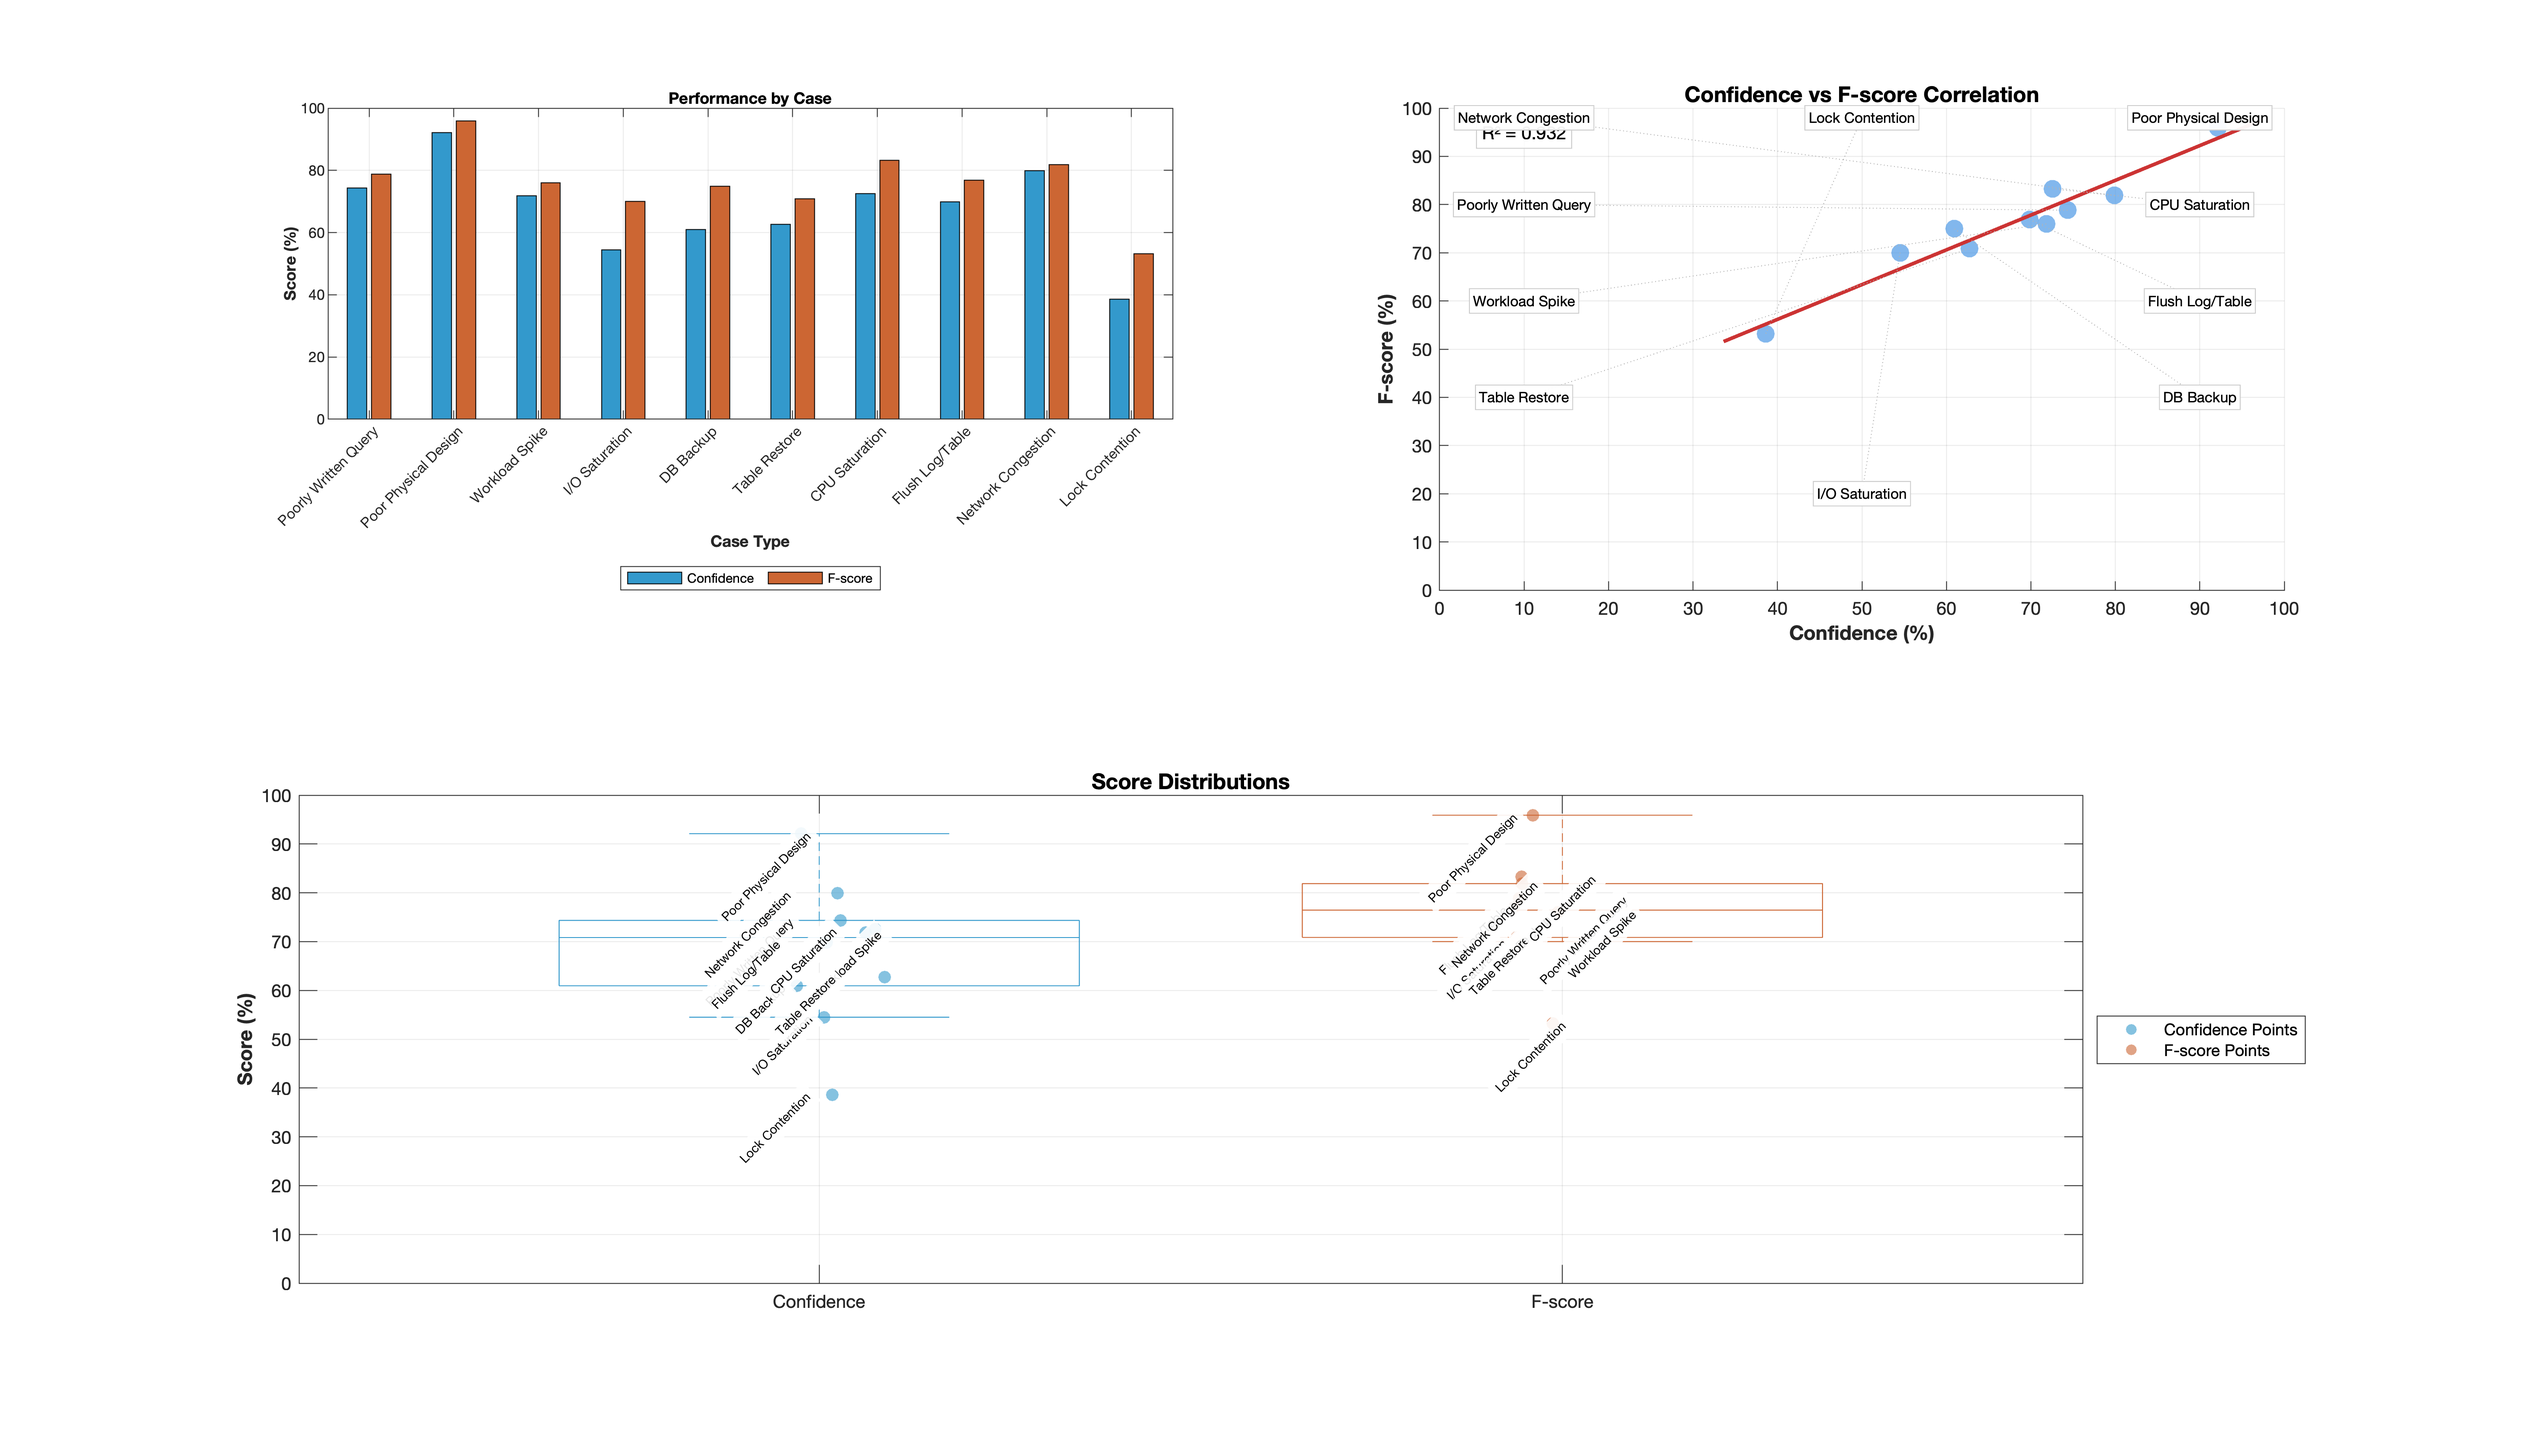
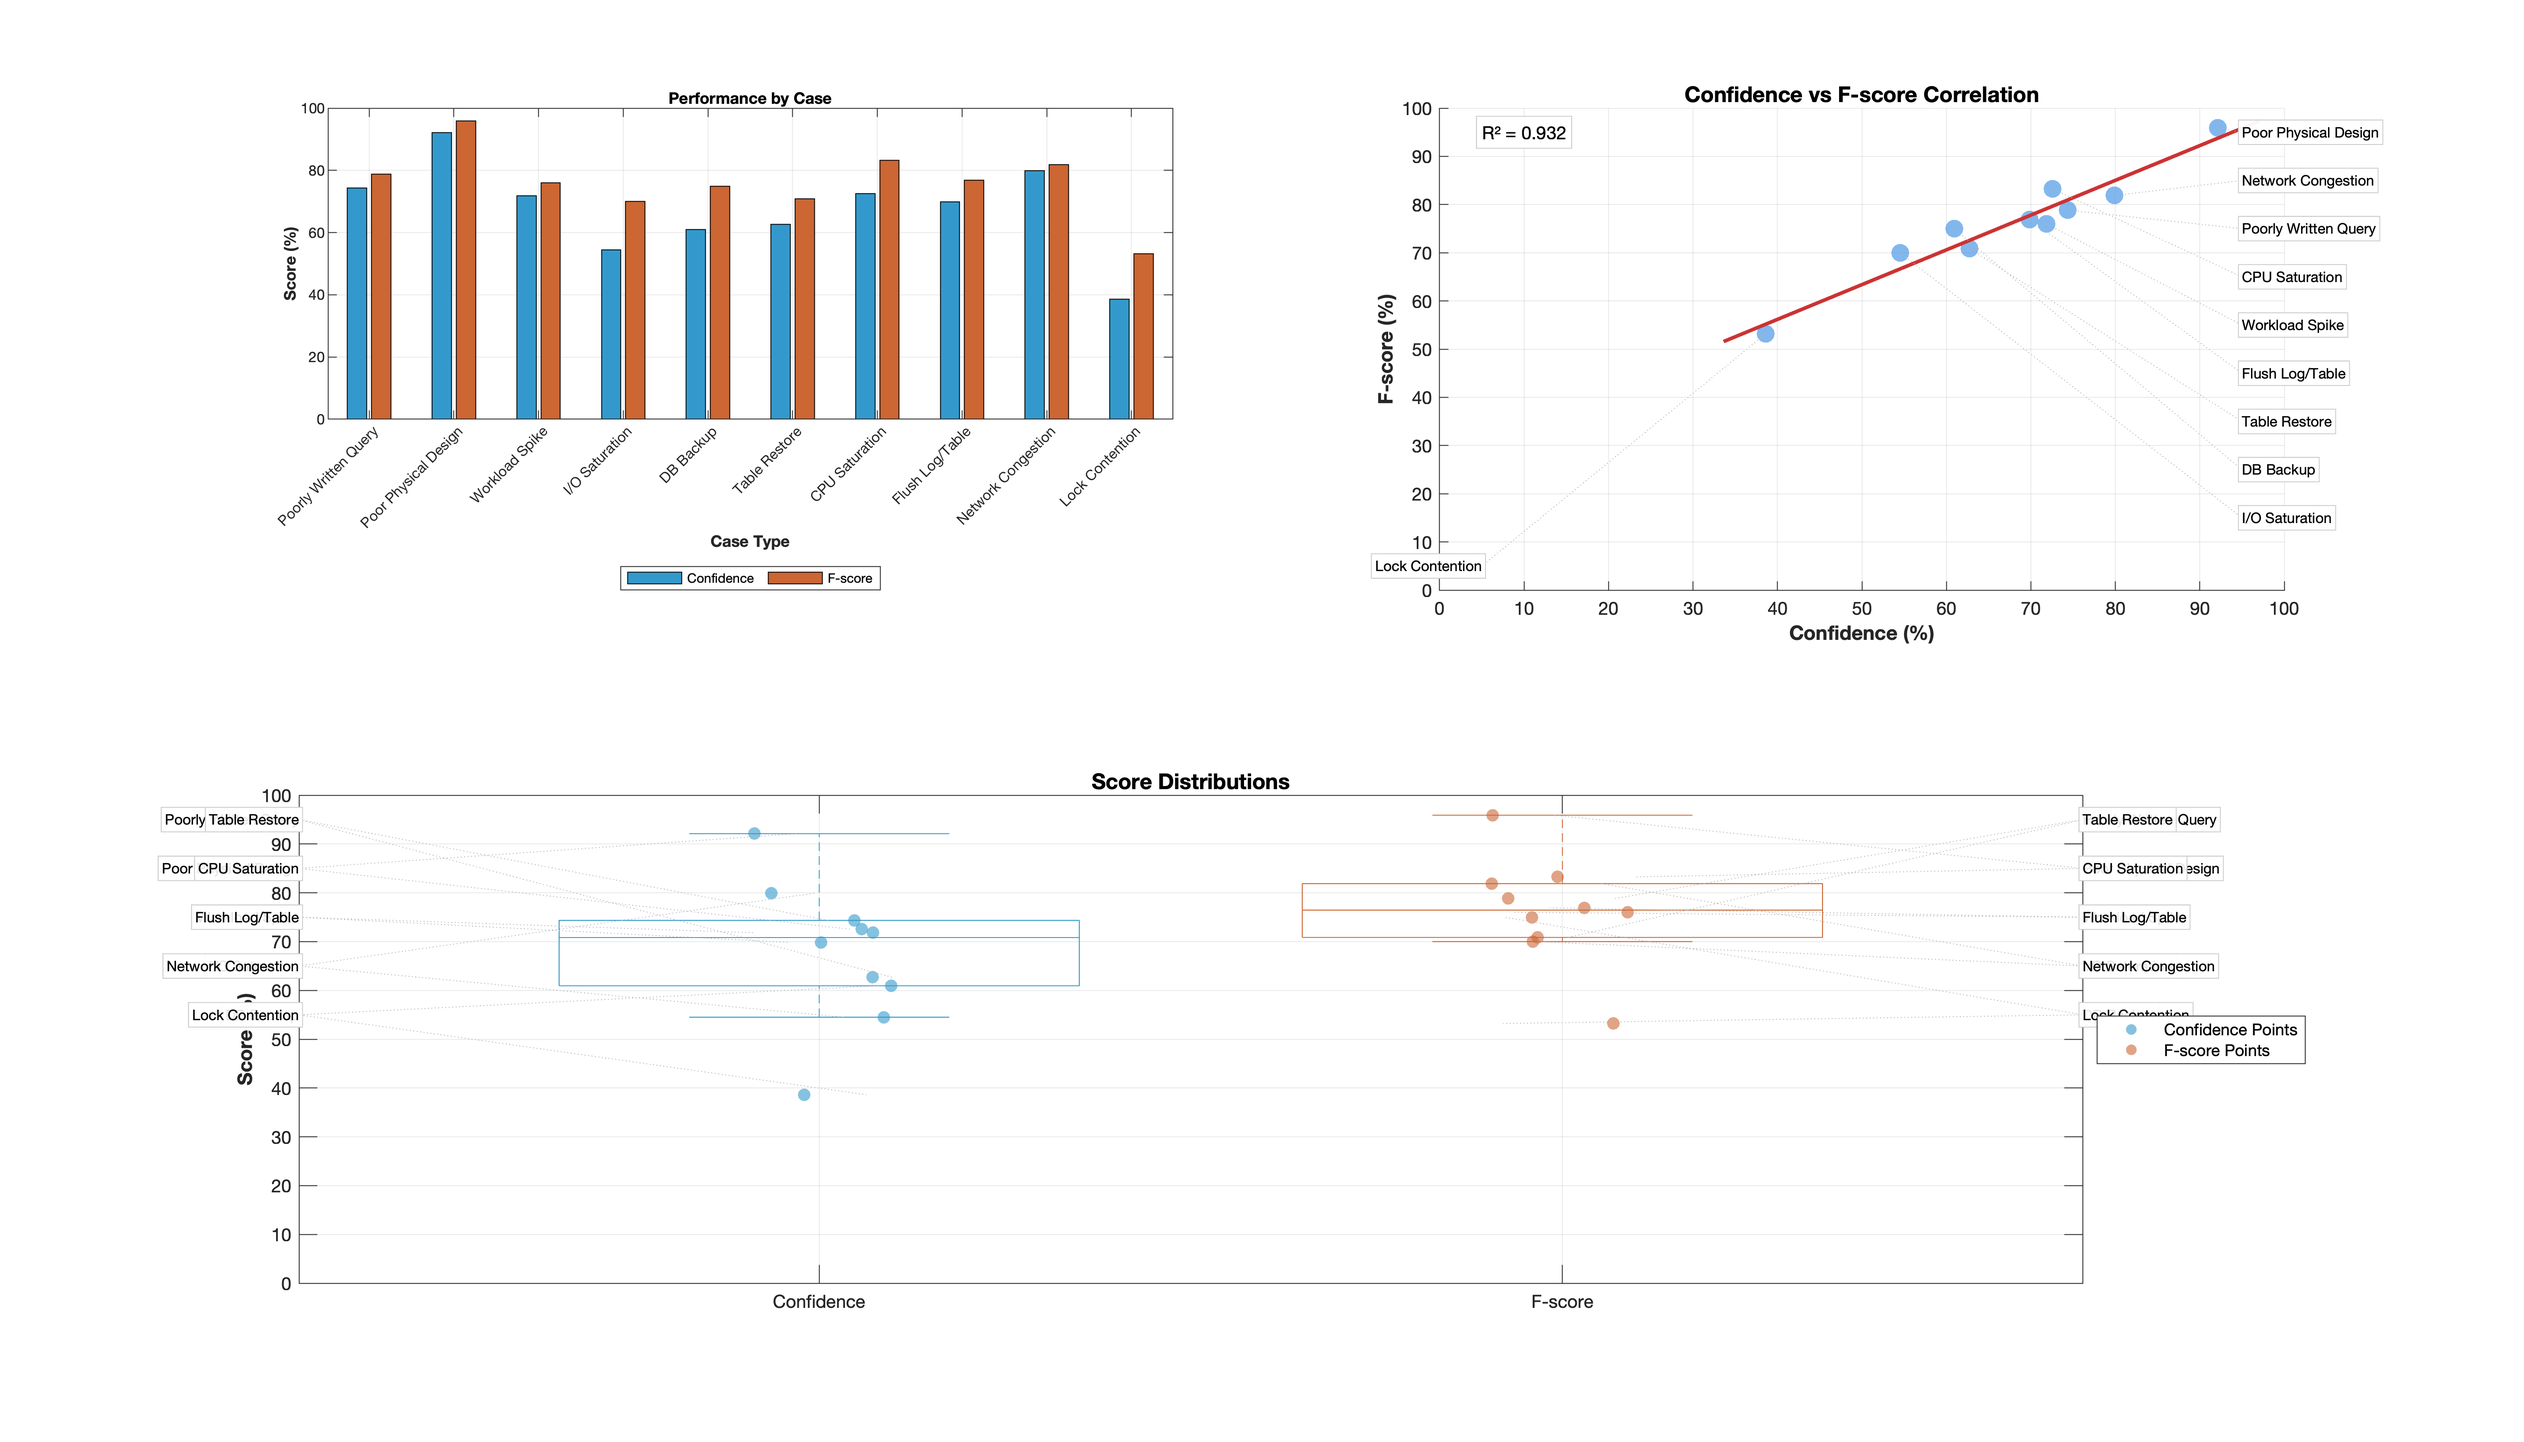
labels

diff --git a/scripts/plot_comprehensive_analysis.m b/scripts/plot_comprehensive_analysis.m
@@ -49,37 +49,38 @@ function plot_comprehensive_analysis(conf_llm, fscore_llm, case_names)
     sorted_fscore = fscore_llm(idx);
     sorted_names = case_names(idx);
     
-    % Define quadrants for label placement with more spread
-    quadrants = [
-        [90, 98];  % top right
-        [10, 98];  % top left
-        [10, 80];  % upper middle left
-        [90, 80];  % upper middle right
-        [10, 60];  % lower middle left
-        [90, 60];  % lower middle right
-        [10, 40];  % bottom left
-        [90, 40];  % bottom right
-        [50, 20];  % bottom center
-        [50, 98]   % top center
-    ];
-    
-    % Place labels in predefined positions
+    % Place labels in predefined positions with better spacing
     for i = 1:length(sorted_names)
         x = sorted_conf(i);
         y = sorted_fscore(i);
         
-        % Choose quadrant based on point position
-        label_x = quadrants(i,1);
-        label_y = quadrants(i,2);
+        % Calculate base position based on point location
+        if x > 50
+            base_x = 95;  % right side
+            align = 'left';
+        else
+            base_x = 5;   % left side
+            align = 'right';
+        end
+        
+        % Calculate y position with more spacing
+        base_y = 95 - (i-1) * 8;  % Start from top, increment down by 8 units
+        
+        % Adjust positions to prevent overlap
+        if i > 1 && abs(base_y - prev_y) < 10
+            base_y = prev_y - 10;  % Ensure minimum 10-unit vertical spacing
+        end
         
         % Draw connection line
-        plot([x label_x], [y label_y], ':', 'Color', [0.7 0.7 0.7]);
+        plot([x base_x], [y base_y], ':', 'Color', [0.7 0.7 0.7]);
         
         % Add label with background
-        text(label_x, label_y, sorted_names{i}, ...
-             'FontSize', 8, 'HorizontalAlignment', 'center', ...
+        text(base_x, base_y, sorted_names{i}, ...
+             'FontSize', 8, 'HorizontalAlignment', align, ...
              'BackgroundColor', [1 1 1 0.95], 'EdgeColor', [0.8 0.8 0.8], ...
              'Margin', 2);
+        
+        prev_y = base_y;  % Store current y position for next iteration
     end
     
     title('Confidence vs F-score Correlation', 'FontWeight', 'bold', 'FontSize', 12);
@@ -104,18 +105,54 @@ function plot_comprehensive_analysis(conf_llm, fscore_llm, case_names)
     scatter(2*ones(size(fscore_llm)) + (rand(size(fscore_llm))-0.5)*jitter, fscore_llm, 50, ...
            fscore_color, 'filled', 'MarkerFaceAlpha', 0.6);
     
-    % Add point labels with better positioning
+    % Define label positions for both confidence and f-score points
+    label_positions_conf = [
+        0.3, 95;  % top left
+        0.3, 85;  % upper left
+        0.3, 75;  % middle left
+        0.3, 65;  % lower left
+        0.3, 55;  % bottom left
+    ];
+    
+    label_positions_fscore = [
+        2.7, 95;  % top right
+        2.7, 85;  % upper right
+        2.7, 75;  % middle right
+        2.7, 65;  % lower right
+        2.7, 55;  % bottom right
+    ];
+    
+    % Add point labels with improved positioning
     for i = 1:length(case_names)
         % Label confidence points
-        text(1 + (rand-0.5)*jitter, conf_llm(i), case_names{i}, ...
-             'FontSize', 7, 'HorizontalAlignment', 'right', ...
-             'VerticalAlignment', 'middle', 'Rotation', 45, ...
-             'BackgroundColor', [1 1 1 0.9]);
+        x_conf = 1 + (rand-0.5)*jitter;
+        y_conf = conf_llm(i);
+        x_label = label_positions_conf(mod(i-1, size(label_positions_conf,1))+1, 1);
+        y_label = label_positions_conf(mod(i-1, size(label_positions_conf,1))+1, 2);
+        
+        % Draw connection line for confidence
+        plot([x_conf x_label], [y_conf y_label], ':', 'Color', [0.7 0.7 0.7], 'LineWidth', 0.5);
+        
+        % Add confidence label
+        text(x_label, y_label, case_names{i}, ...
+             'FontSize', 8, 'HorizontalAlignment', 'right', ...
+             'BackgroundColor', [1 1 1 0.9], 'EdgeColor', [0.8 0.8 0.8], ...
+             'Margin', 2);
+        
         % Label F-score points
-        text(2 + (rand-0.5)*jitter, fscore_llm(i), case_names{i}, ...
-             'FontSize', 7, 'HorizontalAlignment', 'right', ...
-             'VerticalAlignment', 'middle', 'Rotation', 45, ...
-             'BackgroundColor', [1 1 1 0.9]);
+        x_fscore = 2 + (rand-0.5)*jitter;
+        y_fscore = fscore_llm(i);
+        x_label = label_positions_fscore(mod(i-1, size(label_positions_fscore,1))+1, 1);
+        y_label = label_positions_fscore(mod(i-1, size(label_positions_fscore,1))+1, 2);
+        
+        % Draw connection line for f-score
+        plot([x_fscore x_label], [y_fscore y_label], ':', 'Color', [0.7 0.7 0.7], 'LineWidth', 0.5);
+        
+        % Add f-score label
+        text(x_label, y_label, case_names{i}, ...
+             'FontSize', 8, 'HorizontalAlignment', 'left', ...
+             'BackgroundColor', [1 1 1 0.9], 'EdgeColor', [0.8 0.8 0.8], ...
+             'Margin', 2);
     end
     
     title('Score Distributions', 'FontWeight', 'bold', 'FontSize', 12);
